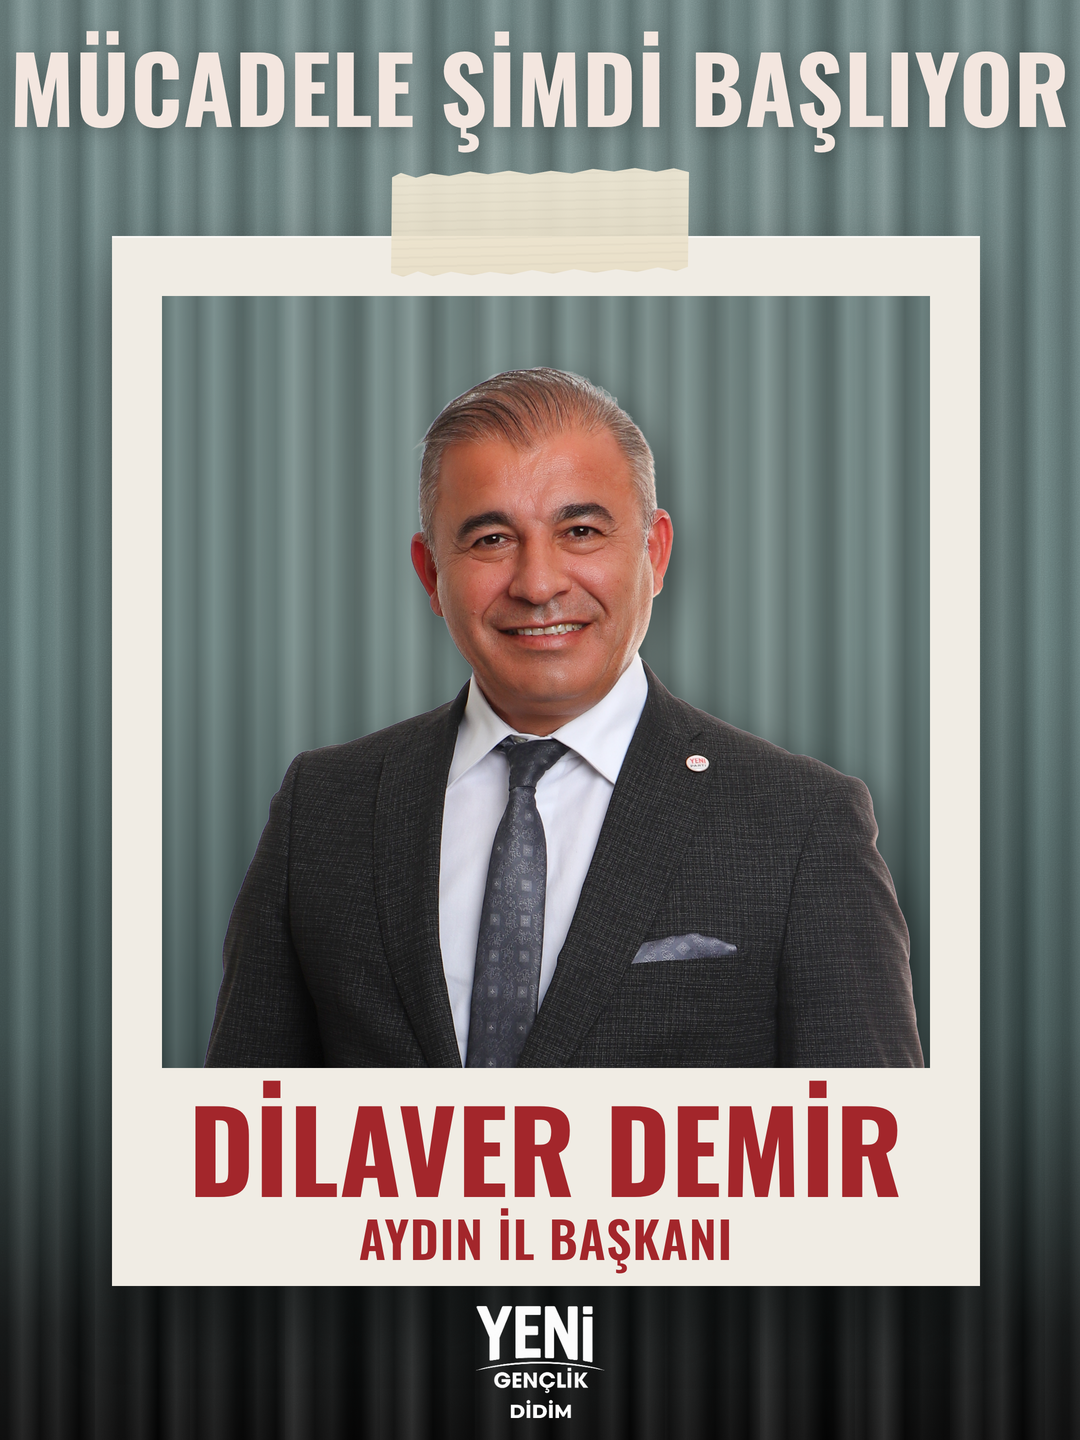
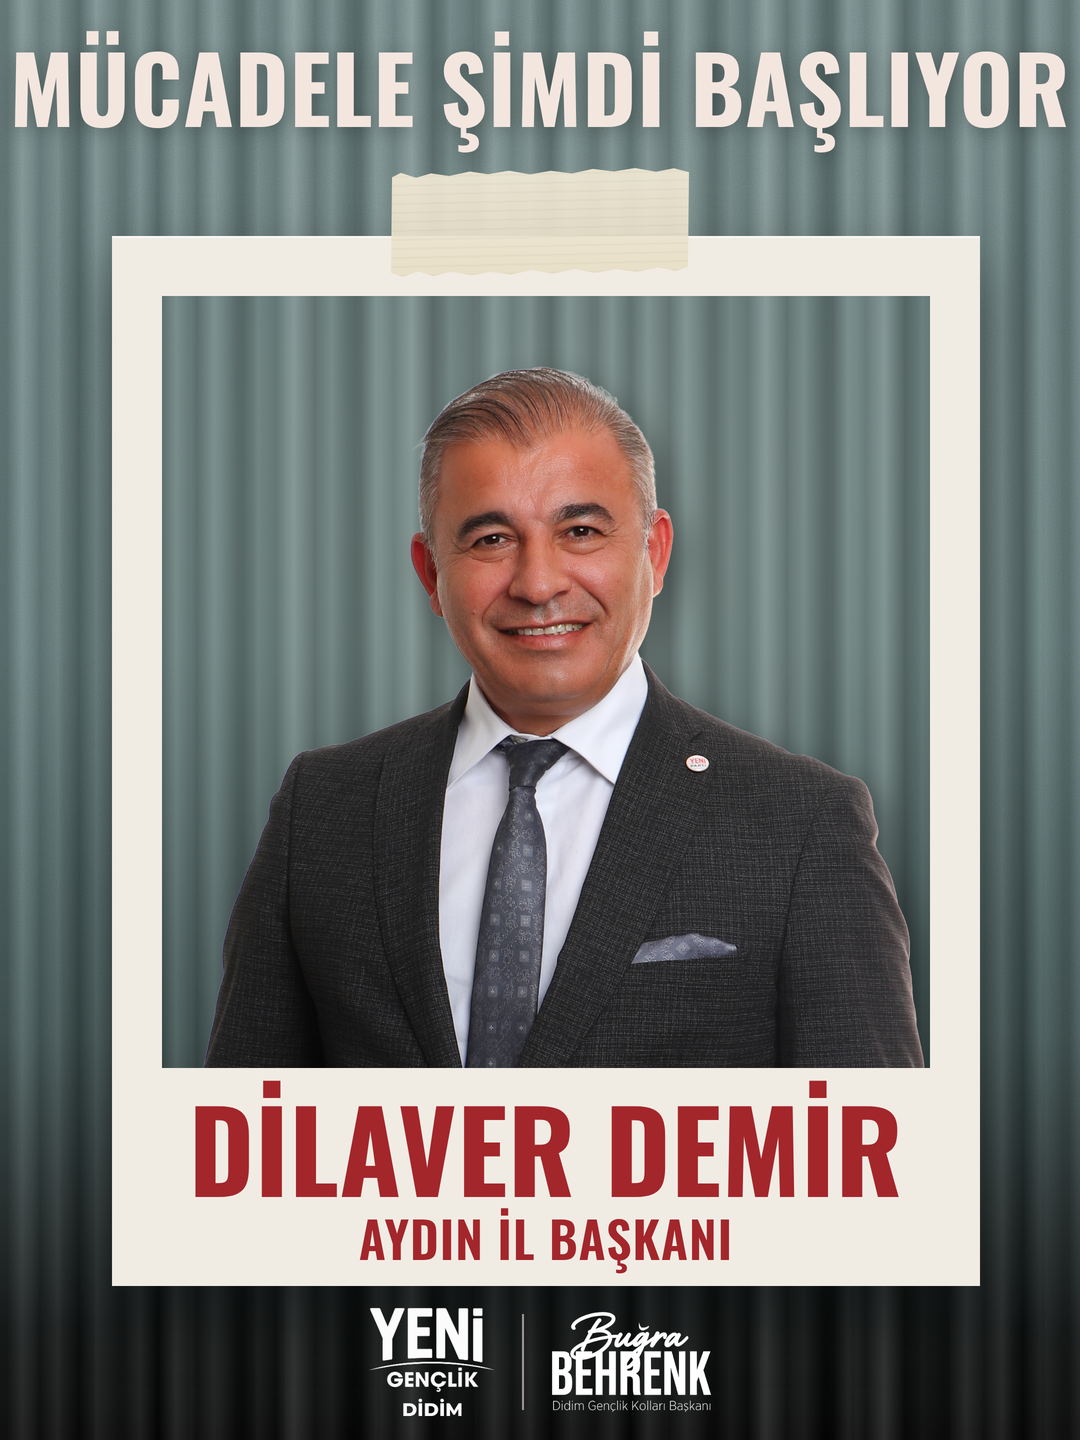
Zafer postu: Buğra Behrenk imzası eklendi
Claude-Session: https://claude.ai/code/session_01SatttGbgBLoCnk9KGLypWv

Changed region(s): [[0.3361, 0.9062, 0.6722, 1.0]]

diff --git a/tasarim/kisisel/zafer/zafer2.html b/tasarim/kisisel/zafer/zafer2.html
@@ -38,6 +38,10 @@ body{position:relative;background:#050505}
 .isim span{display:block;margin-top:10px;font:50px/1 O6;letter-spacing:.02em}
 .logo{position:absolute;left:50%;top:1306px;height:112px;transform:translateX(-50%)}
 .kisi2{position:absolute;left:-246px;top:-114px;width:1267px;height:1773px;filter:contrast(1.03)}
+.alt{position:absolute;left:0;right:0;top:1304px;height:116px;display:flex;justify-content:center;align-items:center;gap:28px}
+.logo2{height:108px}
+.alt .ayrac{width:2px;height:96px;background:rgba(243,230,223,.6)}
+.alt .imza{height:100px}
 </style>
 <body>
 <div class="perde"></div>
@@ -47,5 +51,5 @@ body{position:relative;background:#050505}
 <div class="pencere"><div class="perde" style="left:-162px;top:-296px;width:1080px;height:1440px"></div><img class="kisi2" src="foto2.png" style="left:-232px;top:-100px;filter:brightness(0) blur(16px);opacity:.35"><img class="kisi2" src="foto2.png"></div>
 <div class="bant"></div>
 <div class="isim"><b>DİLAVER DEMİR</b><span>AYDIN İL BAŞKANI</span></div>
-<img class="logo" src="logo-beyaz.png">
+<div class="alt"><img class="logo2" src="logo-beyaz.png"><span class="ayrac"></span><img class="imza" src="imza-beyaz.png"></div>
 </body></html>
